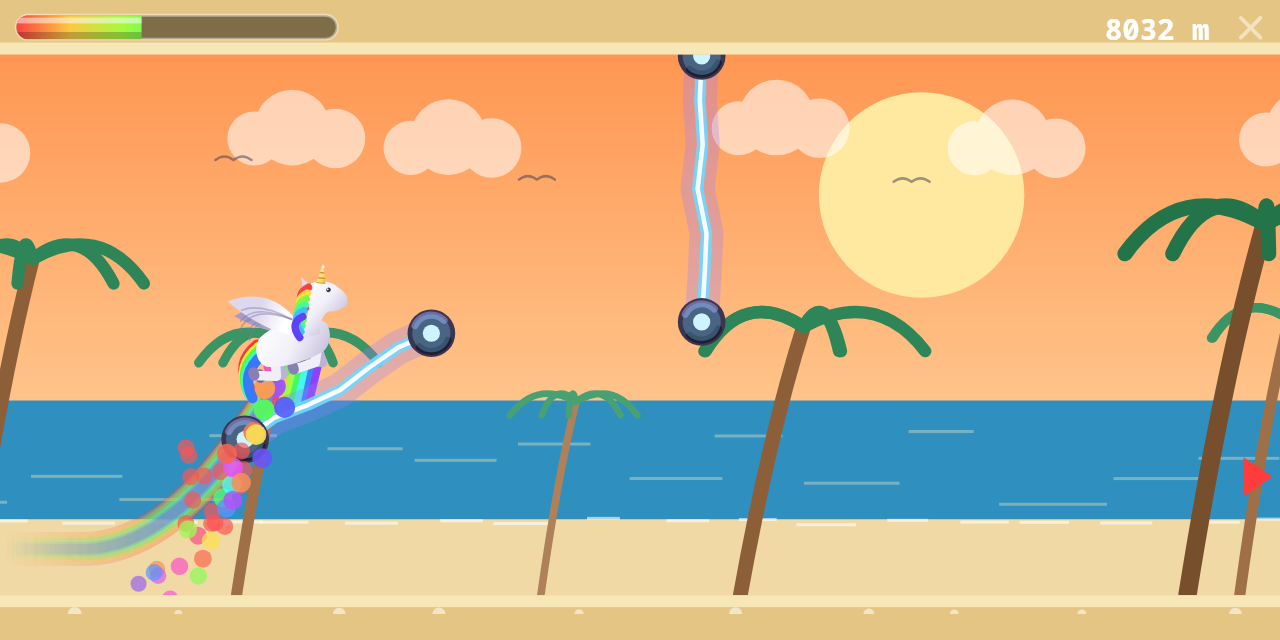
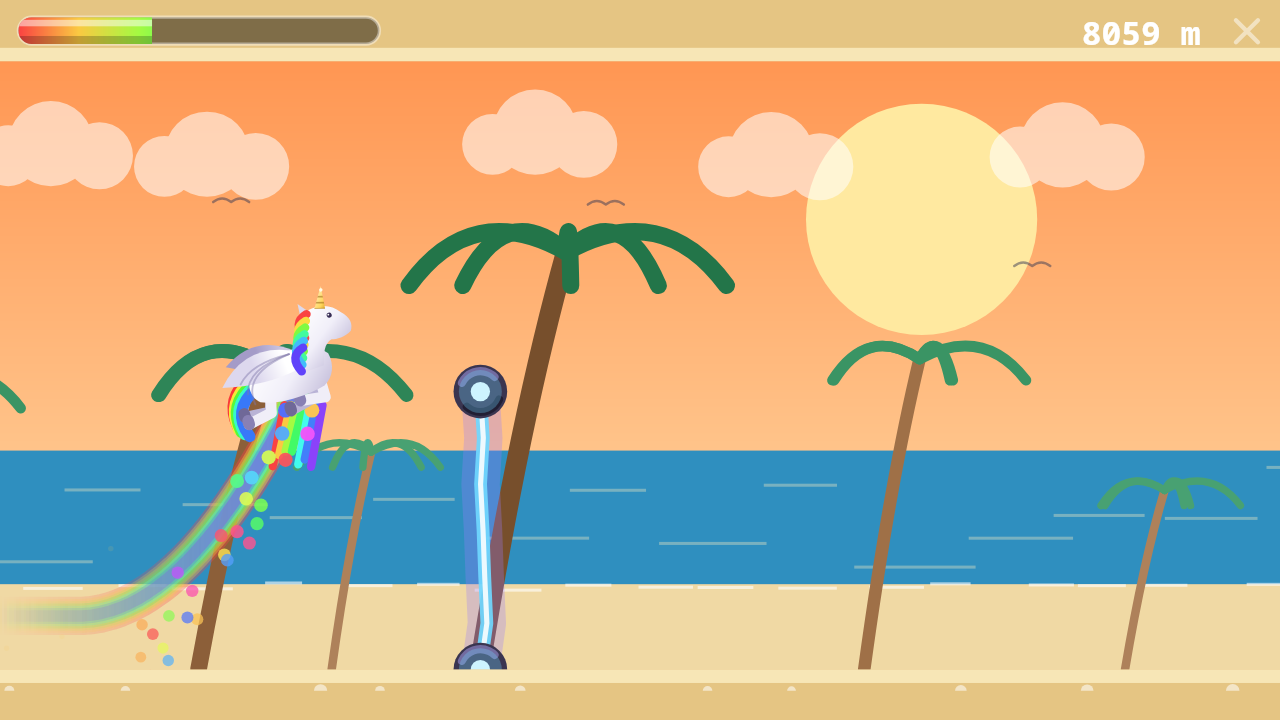
Particules proportionnelles a la taille de la licorne, captures refaites en 16/9

diff --git a/index.html b/index.html
@@ -2474,14 +2474,14 @@ function drawFrame() {
 		x = uniX + e.x - X
 		if (e.k) {                                     // a shockwave opening and fading
 			C.strokeStyle = 'hsla(' + e.h + ',100%,72%,' + e.l + ')'
-			C.lineWidth = 2 + e.l * 4
+			C.lineWidth = uniSize * (.010 + e.l * .021)
 			C.beginPath()
 			C.arc(x, e.y, (1 - e.l) * uniSize * (e.k > 1 ? .95 : .6), 0, 7)
 			C.stroke()
 		} else {
 			C.fillStyle = 'hsla(' + e.h + ',95%,66%,' + e.l + ')'
 			C.beginPath()
-			C.arc(x, e.y, 3 + e.l * 8, 0, 7)
+			C.arc(x, e.y, uniSize * (.016 + e.l * .042), 0, 7)
 			C.fill()
 		}
 	}
